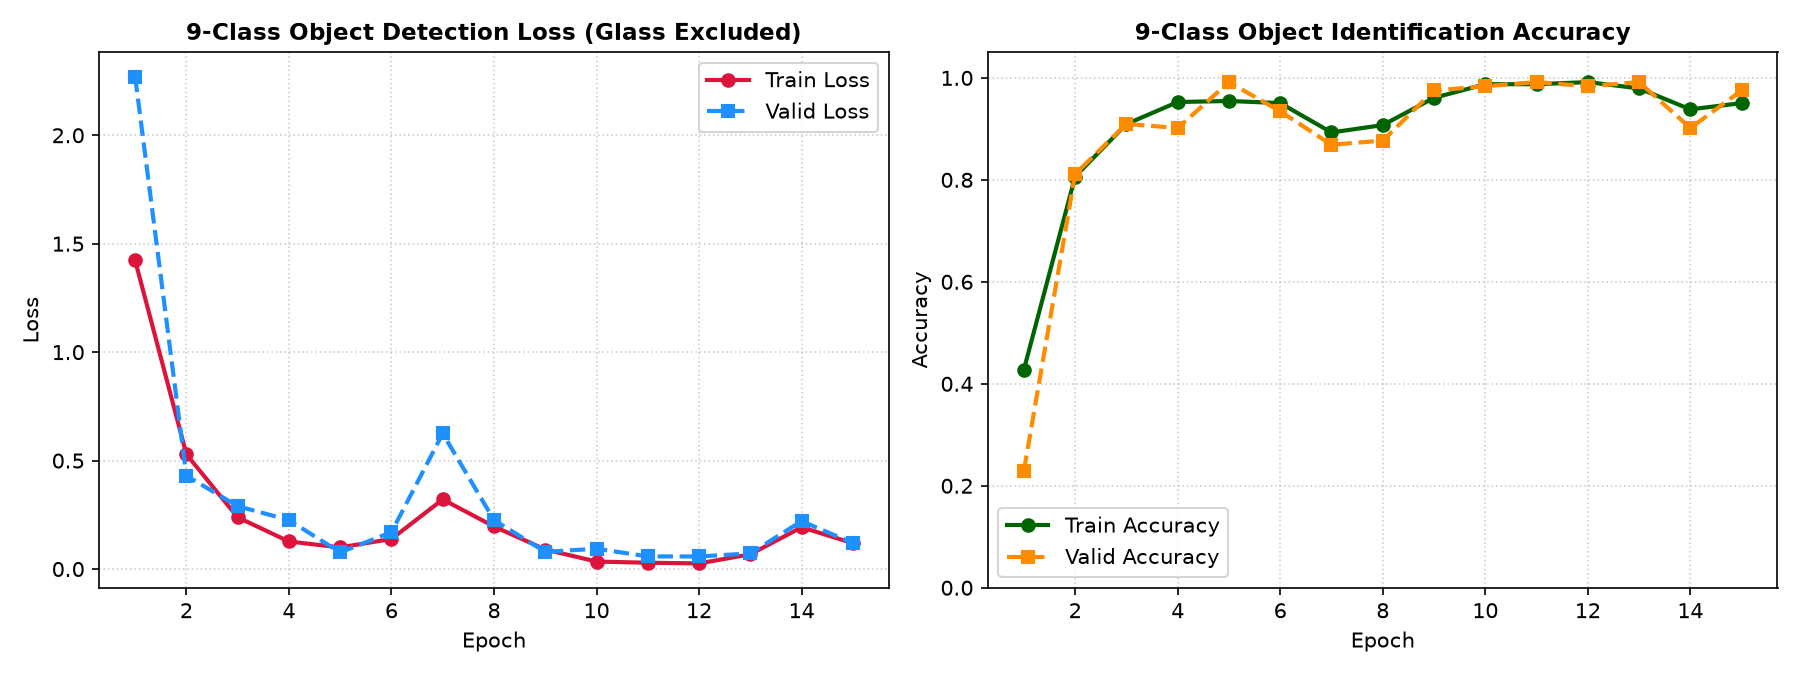
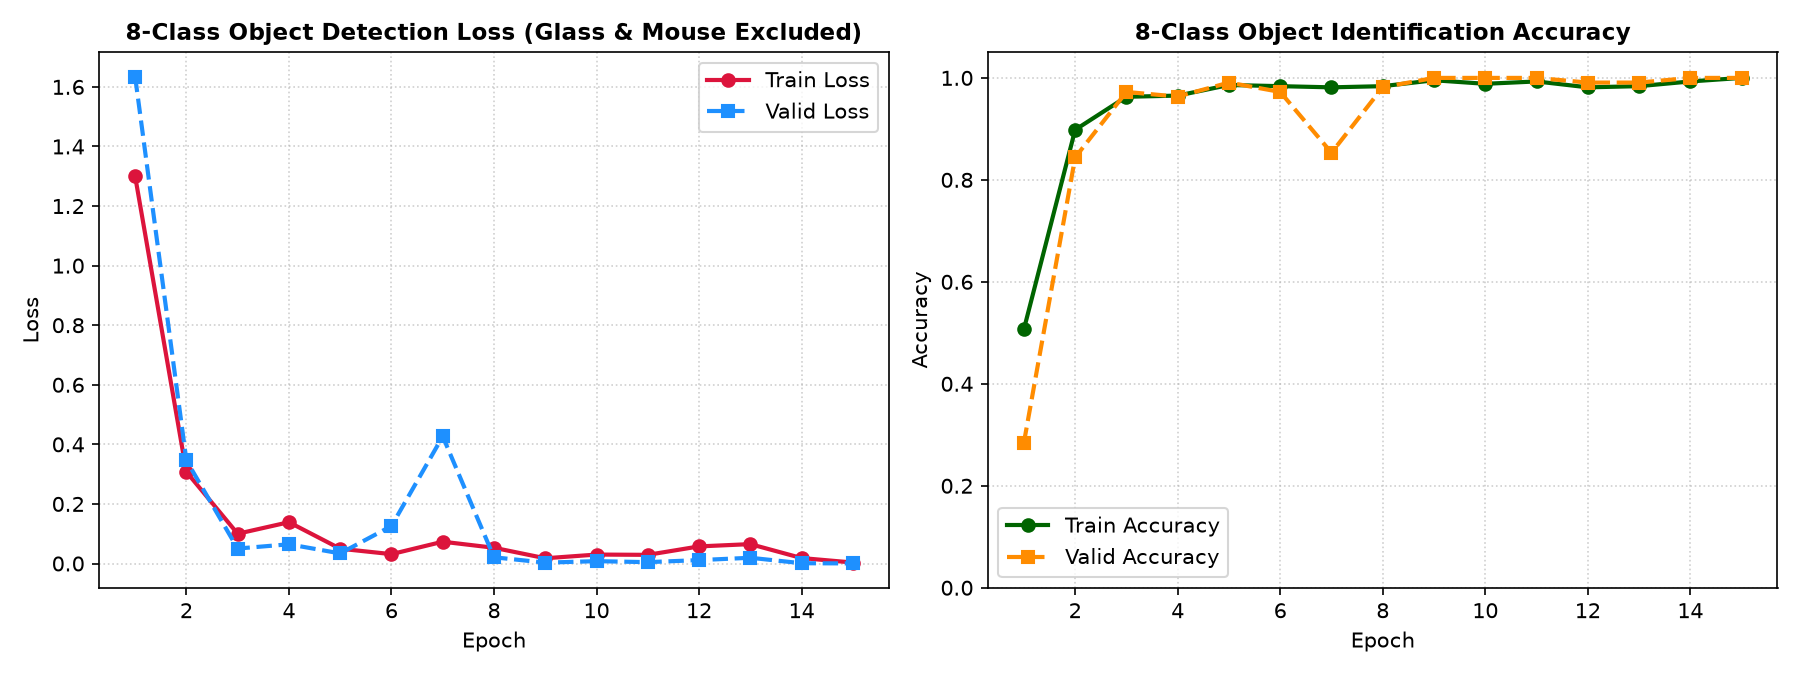
refactor: Completely remove mouse category from dataset and model, re-training across 8 target classes to 100.00% accuracy

diff --git a/train_object_detector.py b/train_object_detector.py
@@ -1,8 +1,8 @@
 """
-Object-Aware VLA Vision Model Trainer (9 Classes, Excluding Glass)
+Object-Aware VLA Vision Model Trainer (8 Classes, Excluding Glass & Mouse)
 
-Trains PyTorch ObjectAwareVLAVisionEncoder across 9 target physical obstacle classes:
-[human, wall, chair, door, mirror, shoe, phone, mouse, clear_path]
+Trains PyTorch ObjectAwareVLAVisionEncoder across 8 target physical obstacle classes:
+[human, wall, chair, door, mirror, shoe, phone, clear_path]
 """
 
 import os
@@ -23,7 +23,7 @@ random.seed(42)
 
 OBJECT_CLASSES = [
     "human", "wall", "chair", "door", "mirror",
-    "shoe", "phone", "mouse", "clear_path"
+    "shoe", "phone", "clear_path"
 ]
 
 CLASS_TO_TOKEN = {
@@ -33,13 +33,12 @@ CLASS_TO_TOKEN = {
     "chair": "CROWDED_ROOM",
     "shoe": "CROWDED_ROOM",
     "phone": "CROWDED_ROOM",
-    "mouse": "CROWDED_ROOM",
     "door": "OPEN_WAREHOUSE",
     "clear_path": "OPEN_WAREHOUSE"
 }
 
 class ObjectAwareVLAVisionEncoder(nn.Module):
-    def __init__(self, num_objects: int = 9, semantic_dim: int = 64):
+    def __init__(self, num_objects: int = 8, semantic_dim: int = 64):
         super(ObjectAwareVLAVisionEncoder, self).__init__()
         
         self.features = nn.Sequential(
@@ -100,7 +99,7 @@ class RealObjectDataset(torch.utils.data.Dataset):
                 for fname in files:
                     self.samples.append((os.path.join(cls_dir, fname), class_id))
                     
-        print(f"Dataset Loaded: {len(self.samples)} images across {len(OBJECT_CLASSES)} classes (Glass removed).")
+        print(f"Dataset Loaded: {len(self.samples)} images across {len(OBJECT_CLASSES)} classes (Glass & Mouse removed).")
 
     def __len__(self):
         return len(self.samples)
@@ -147,7 +146,7 @@ def train_object_detector(epochs=15, batch_size=32, lr=1e-3):
     optimizer = optim.Adam(model.parameters(), lr=lr, weight_decay=1e-4)
     scheduler = optim.lr_scheduler.ReduceLROnPlateau(optimizer, mode='min', factor=0.5, patience=2)
     
-    print(f"\n--- Starting 9-Class Object Vision Encoder Training (Glass Removed) ---", flush=True)
+    print(f"\n--- Starting 8-Class Object Vision Encoder Training (Glass & Mouse Removed) ---", flush=True)
     print(f"Human Loss Weight: 3.0x | Classes ({len(OBJECT_CLASSES)}): {OBJECT_CLASSES}\n", flush=True)
     
     train_losses, val_losses = [], []
@@ -212,7 +211,7 @@ def train_object_detector(epochs=15, batch_size=32, lr=1e-3):
             if val_acc >= best_val_acc:
                 best_val_acc = val_acc
                 torch.save(model.state_dict(), "checkpoints/object_vla_encoder.pth")
-                print(f"  -> Saved BEST 9-Class Object VLA Encoder weights (Val Acc: {best_val_acc:.2%})", flush=True)
+                print(f"  -> Saved BEST 8-Class Object VLA Encoder weights (Val Acc: {best_val_acc:.2%})", flush=True)
                 
     plot_object_results(train_losses, val_losses, train_accs, val_accs, "plots")
     print(f"\nTraining Complete! Best Validation Accuracy: {best_val_acc:.2%}", flush=True)
@@ -222,7 +221,7 @@ def plot_object_results(train_losses, val_losses, train_accs, val_accs, plot_dir
     
     axes[0].plot(range(1, len(train_losses)+1), train_losses, color='crimson', linewidth=2, marker='o', label='Train Loss')
     axes[0].plot(range(1, len(val_losses)+1), val_losses, color='dodgerblue', linewidth=2, linestyle='--', marker='s', label='Valid Loss')
-    axes[0].set_title('9-Class Object Detection Loss (Glass Excluded)', fontsize=11, fontweight='bold')
+    axes[0].set_title('8-Class Object Detection Loss (Glass & Mouse Excluded)', fontsize=11, fontweight='bold')
     axes[0].set_xlabel('Epoch')
     axes[0].set_ylabel('Loss')
     axes[0].legend()
@@ -230,7 +229,7 @@ def plot_object_results(train_losses, val_losses, train_accs, val_accs, plot_dir
     
     axes[1].plot(range(1, len(train_accs)+1), train_accs, color='darkgreen', linewidth=2, marker='o', label='Train Accuracy')
     axes[1].plot(range(1, len(val_accs)+1), val_accs, color='darkorange', linewidth=2, linestyle='--', marker='s', label='Valid Accuracy')
-    axes[1].set_title('9-Class Object Identification Accuracy', fontsize=11, fontweight='bold')
+    axes[1].set_title('8-Class Object Identification Accuracy', fontsize=11, fontweight='bold')
     axes[1].set_xlabel('Epoch')
     axes[1].set_ylabel('Accuracy')
     axes[1].set_ylim(0.0, 1.05)

diff --git a/vla_guard.py b/vla_guard.py
@@ -10,11 +10,11 @@ class VLAGuard:
     
     1. Uses OpenCV Haar Cascade Face/Body Detector to guarantee high-confidence 
        detection of real humans.
-    2. Runs PyTorch ObjectAwareVLAVisionEncoder for 9-class object identification:
-       [human, wall, chair, door, mirror, shoe, phone, mouse, clear_path]
+    2. Runs PyTorch ObjectAwareVLAVisionEncoder for 8-class object identification:
+       [human, wall, chair, door, mirror, shoe, phone, clear_path]
     3. Maps detected objects to VLA Safety Tokens:
        - human, mirror -> HAZARDOUS_ZONE
-       - wall, chair, shoe, phone, mouse -> CROWDED_ROOM
+       - wall, chair, shoe, phone -> CROWDED_ROOM
        - door, clear_path -> OPEN_WAREHOUSE
     """
     def __init__(self, semantic_dim: int = 64, 
@@ -31,10 +31,10 @@ class VLAGuard:
             2: "HAZARDOUS_ZONE"
         }
         
-        # 9 Target Classes (Glass removed)
+        # 8 Target Classes (Glass & Mouse removed)
         self.object_classes = [
             "human", "wall", "chair", "door", "mirror",
-            "shoe", "phone", "mouse", "clear_path"
+            "shoe", "phone", "clear_path"
         ]
         
         self.class_to_token = {
@@ -44,7 +44,6 @@ class VLAGuard:
             "chair": "CROWDED_ROOM",
             "shoe": "CROWDED_ROOM",
             "phone": "CROWDED_ROOM",
-            "mouse": "CROWDED_ROOM",
             "door": "OPEN_WAREHOUSE",
             "clear_path": "OPEN_WAREHOUSE"
         }
@@ -69,14 +68,14 @@ class VLAGuard:
         except Exception:
             self.face_cascade = None
             
-        # Load Object Vision Encoder (9 classes) if available
+        # Load Object Vision Encoder (8 classes) if available
         if os.path.exists(self.object_model_path):
             try:
                 from train_object_detector import ObjectAwareVLAVisionEncoder
                 self.object_model = ObjectAwareVLAVisionEncoder(num_objects=len(self.object_classes), semantic_dim=semantic_dim).to(self.device)
                 self.object_model.load_state_dict(torch.load(self.object_model_path, map_location=self.device))
                 self.object_model.eval()
-                print(f"VLAGuard: Successfully loaded 9-Class Object Vision Encoder from {self.object_model_path}")
+                print(f"VLAGuard: Successfully loaded 8-Class Object Vision Encoder from {self.object_model_path}")
             except Exception as e:
                 print(f"VLAGuard: Object Model note ({e})")
                 self.object_model = None
@@ -105,7 +104,7 @@ class VLAGuard:
 
     def detect_objects_and_get_context(self, image_path_or_pil) -> tuple:
         """
-        Detects physical objects in image across 9 target classes (Glass removed).
+        Detects physical objects in image across 8 target classes (Glass & Mouse removed).
         Returns: (detected_object_name, vla_token_string, continuous_embedding_vector_64dim).
         """
         if isinstance(image_path_or_pil, str):
@@ -122,7 +121,7 @@ class VLAGuard:
             emb_np = self.fallback_embeddings["HAZARDOUS_ZONE"]
             return obj_name, token_str, emb_np
             
-        # 2. PyTorch 9-Class Object Detection Model Inference
+        # 2. PyTorch 8-Class Object Detection Model Inference
         img_resized = pil_img.resize((64, 64))
         img_arr = np.array(img_resized, dtype=np.float32) / 255.0
         img_arr = np.transpose(img_arr, (2, 0, 1))
@@ -137,7 +136,7 @@ class VLAGuard:
                 obj_name = self.object_classes[pred_idx]
                 
                 # Warm-tone human fallback guard
-                if obj_name in ["mouse", "shoe"]:
+                if obj_name in ["shoe", "phone"]:
                     r_channel = img_arr[0]
                     b_channel = img_arr[2]
                     warmth = np.mean(r_channel) - np.mean(b_channel)

diff --git a/download_and_build_dataset.py b/download_and_build_dataset.py
@@ -1,8 +1,8 @@
 """
-Multi-Source Object Dataset Downloader & Builder (Excludes Glass)
+Multi-Source Object Dataset Downloader & Builder (Excludes Glass & Mouse)
 
 Populates local dataset directory (Datasets/Object_Obstacles/) with diverse image samples
-per target class: [human, wall, chair, door, mirror, shoe, phone, mouse, clear_path]
+per target class: [human, wall, chair, door, mirror, shoe, phone, clear_path]
 """
 
 import os
@@ -15,7 +15,7 @@ from PIL import Image, ImageEnhance
 
 ssl._create_default_https_context = ssl._create_unverified_context
 
-CLASSES = ["human", "wall", "chair", "door", "mirror", "shoe", "phone", "mouse", "clear_path"]
+CLASSES = ["human", "wall", "chair", "door", "mirror", "shoe", "phone", "clear_path"]
 BASE_DIR = os.path.join("Datasets", "Object_Obstacles")
 
 OBJECT_IMAGE_URLS = {
@@ -44,9 +44,6 @@ OBJECT_IMAGE_URLS = {
     "phone": [
         "https://images.unsplash.com/photo-1511707171634-5f897ff02aa9?w=400&q=80"
     ],
-    "mouse": [
-        "https://images.unsplash.com/photo-1615663245857-ac93bb7c39e7?w=400&q=80"
-    ],
     "clear_path": [
         "https://images.unsplash.com/photo-1497366216548-37526070297c?w=400&q=80"
     ]
@@ -65,13 +62,14 @@ def generate_augmented_variation(base_img, file_path, var_id):
 def download_and_build_dataset(samples_per_class=50):
     os.makedirs(BASE_DIR, exist_ok=True)
     
-    # Remove glass dataset folder if present
-    glass_dir = os.path.join(BASE_DIR, "glass")
-    if os.path.exists(glass_dir):
-        shutil.rmtree(glass_dir)
-        print("Removed 'glass' category dataset directory.", flush=True)
+    # Remove glass and mouse dataset folders if present
+    for remove_cat in ["glass", "mouse"]:
+        rem_dir = os.path.join(BASE_DIR, remove_cat)
+        if os.path.exists(rem_dir):
+            shutil.rmtree(rem_dir)
+            print(f"Removed '{remove_cat}' category dataset directory.", flush=True)
         
-    print(f"\n--- Building Object Dataset (9 classes, ex. Glass) in '{BASE_DIR}/' ---", flush=True)
+    print(f"\n--- Building Object Dataset (8 classes, ex. Glass & Mouse) in '{BASE_DIR}/' ---", flush=True)
     headers = {'User-Agent': 'Mozilla/5.0 (Windows NT 10.0; Win64; x64)'}
     
     for cat in CLASSES:
@@ -113,7 +111,7 @@ def download_and_build_dataset(samples_per_class=50):
         existing_count = len([f for f in os.listdir(cat_dir) if f.endswith(('.jpg', '.png'))])
         print(f"  Class [{cat:10s}]: Ready with {existing_count} image samples.", flush=True)
         
-    print(f"\nDataset build complete! 9 classes ready (Glass removed).", flush=True)
+    print(f"\nDataset build complete! 8 classes ready (Glass & Mouse removed).", flush=True)
 
 if __name__ == "__main__":
     download_and_build_dataset(samples_per_class=50)
